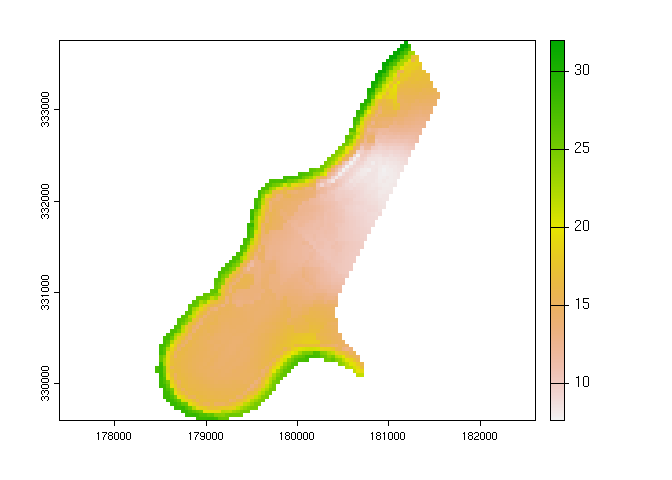
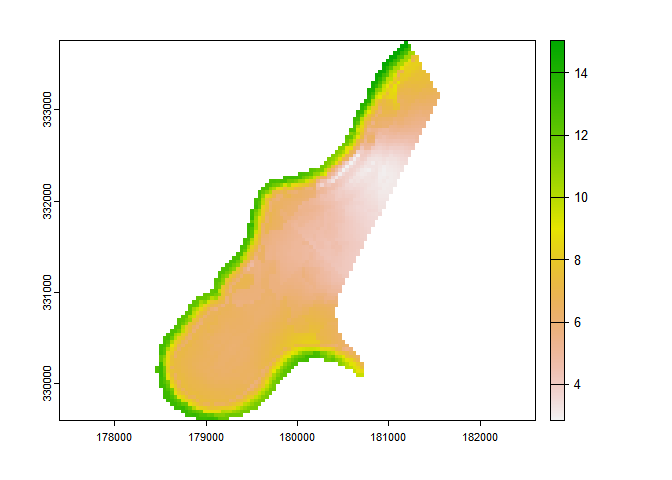
Update README.Rmd

diff --git a/README.md b/README.md
@@ -32,10 +32,10 @@ generally will have positive and negative values distributed around
 zero. The sum of the two grids will give a more realistic estimate of
 values in the training area given the known, observed point values.
 
-- If there is no significant spatial component to the errors, the
-  residual kriging value is the mean value of the residual errors from
-  the training data. This mean error value is also assumed for
-  predictions made outside the extent of the training data.
+-   If there is no significant spatial component to the errors, the
+    residual kriging value is the mean value of the residual errors from
+    the training data. This mean error value is also assumed for
+    predictions made outside the extent of the training data.
 
 ## Installation
 
@@ -55,7 +55,8 @@ of surface soil organic matter content (%) along the Meuse River.
 ``` r
 library(grundo)
 library(terra)
-#> terra 1.6.47
+#> Warning: package 'terra' was built under R version 4.2.2
+#> terra 1.6.49
 
 # uses classic `meuse` datasets from {sp} package
 data(meuse, package = "sp")
@@ -132,7 +133,7 @@ plot(x$result)
 <img src="man/figures/README-cubist-meuse-1.png" width="100%" />
 
 ``` r
-plot(sum(x$result))
+plot(sum(x$result[[1:2]]))
 ```
 
 <img src="man/figures/README-cubist-meuse-2.png" width="100%" />
@@ -164,7 +165,7 @@ plot(y$result)
 <img src="man/figures/README-ranger-meuse-1.png" width="100%" />
 
 ``` r
-plot(sum(y$result))
+plot(sum(y$result[[1:2]]))
 ```
 
 <img src="man/figures/README-ranger-meuse-2.png" width="100%" />
@@ -175,7 +176,7 @@ We can take the average of several `grundo()` runs for an “ensemble”
 estimate.
 
 ``` r
-plot(mean(c(sum(x$result), sum(y$result))))
+plot(mean(c(sum(x$result[[1:2]]), sum(y$result[[1:2]]))))
 ```
 
 <img src="man/figures/README-meuse-ensemble-1.png" width="100%" />
